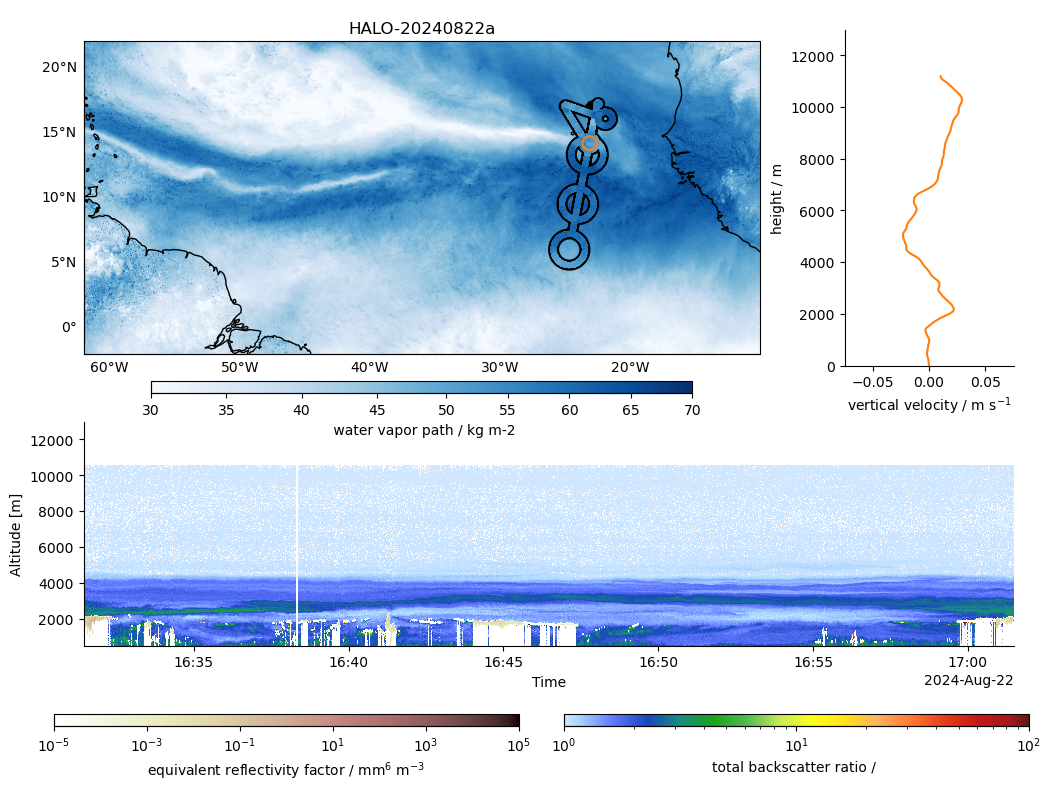
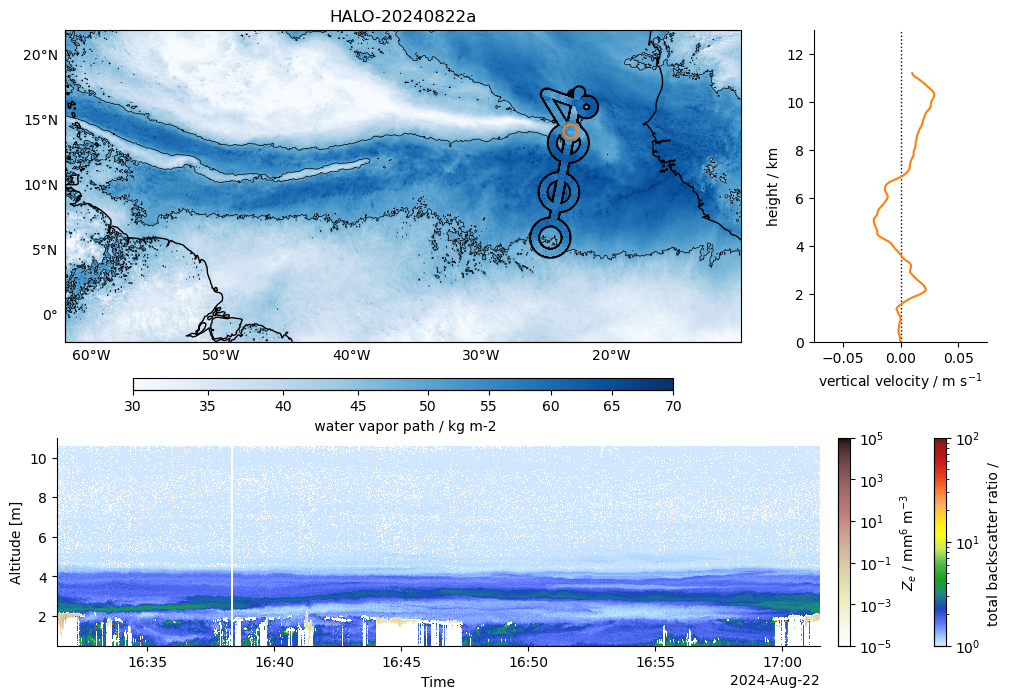
Improves outside the ITCZ plot.

diff --git a/scripts/figures_itcz_outside.py b/scripts/figures_itcz_outside.py
@@ -50,6 +50,8 @@ sondes_ds = xr.open_dataset(
 )
 
 sondes_ds = sondes_ds.swap_dims({"circle": "circle_id"})
+sondes_ds = sondes_ds.assign_coords(altitude=sondes_ds.altitude / 1e3)
+
 circles_flight_day = sondes_ds.sel(circle_time=flight_date)
 
 iwv_crit = 48.0  # kg/m^2
@@ -129,7 +131,7 @@ ds_hamp_flight = ds_hamp.sel(time=slice(flight_start, flight_end))
 
 ds_hamp_passiv = xr.open_dataset(
     "ipfs://bafybeihvsq73hokuex44oueqvnotaeoikwcs5yyiydtc777td2ldcm6z4y", engine="zarr"
-) 
+)
 ds_hamp_passiv_flight = ds_hamp_passiv.sel(time=slice(flight_start, flight_end))
 ds_hamp_passiv_segment = ds_hamp_passiv.sel(time=slice(segment_start, segment_end))
 
@@ -140,7 +142,6 @@ ds_hamp_passiv_segment = ds_hamp_passiv.sel(time=slice(segment_start, segment_en
 # LAM dataset
 url = "https://eerie.cloud.dkrz.de/datasets/orcestra_1250m_2d_hpz12/kerchunk"
 lam_ds = xr.open_dataset(url, chunks={}, engine="zarr", zarr_format=3)
-lam_ds = lam_ds.assign(sfcwind=lambda dx: np.hypot(dx.uas, dx.vas))
 time = f"{flight_date} 16:00"
 
 # %%
@@ -158,7 +159,9 @@ scatter_kwargs = {
 
 fig = plt.figure(figsize=(12, 8))
 
-gs = fig.add_gridspec(2, 2, height_ratios=[1.5, 1], width_ratios=[4, 1])
+gs = fig.add_gridspec(
+    2, 2, height_ratios=[1.5, 1], width_ratios=[4, 1], hspace=0.37, wspace=0.15
+)
 
 ax_lam = fig.add_subplot(gs[0, 0], projection=ccrs.PlateCarree())
 ax_ds = fig.add_subplot(gs[0, 1])
@@ -170,7 +173,16 @@ base_map(coastline_kwargs={"color": "k"}, ax=ax_lam)
 vmin, vmax, vcenter = 30, 70, 48
 norm = TwoSlopeNorm(vmin=vmin, vcenter=vcenter, vmax=vmax)
 cmap = plt.cm.Blues.copy()
-im = egh.healpix_show(ds_lam_sel, cmap=cmap, norm=norm, ax=ax_lam, alpha=1.0)
+im_les = egh.healpix_show(ds_lam_sel, cmap=cmap, norm=norm, ax=ax_lam, alpha=1.0)
+
+egh.healpix_contour(
+    ds_lam_sel,
+    ax=ax_lam,
+    levels=[48],
+    colors="k",
+    linewidths=0.5,
+    zorder=10,
+)
 
 pos = ax_lam.get_position()
 
@@ -178,7 +190,7 @@ width_scale = 0.8
 
 cax_lam_positions = [
     pos.x0 + pos.width * (1 - width_scale) / 2,  # left
-    pos.y1 - 0.44,  # bottom
+    pos.y1 - 0.45,  # bottom
     pos.width * width_scale,  # width
     0.015,  # height
 ]
@@ -186,7 +198,7 @@ cax_lam_positions = [
 cax_lam = fig.add_axes(cax_lam_positions)
 
 cb = fig.colorbar(
-    im,
+    im_les,
     cax=cax_lam,
     orientation="horizontal",
     label=rf" {ds_lam_sel.long_name} / {ds_lam_sel.units}",
@@ -248,6 +260,10 @@ cmap_wales_ticklocator = FixedLocator(
 )
 
 ds_wales_sel_segment = ds_wales_no_wv.sel(time=slice(segment_start, segment_end))
+ds_wales_sel_segment = ds_wales_sel_segment.assign_coords(
+    altitude=ds_wales_sel_segment.altitude / 1e3
+)
+
 im_wales = ds_wales_sel_segment["bsrg"].plot(
     alpha=0.9,
     x="time",
@@ -267,6 +283,9 @@ cmap.set_under((1, 1, 1, 0))  # transparent
 reflectivity_segment = ds_hamp_flight.radar_reflectivity.sel(
     time=slice(segment_start, segment_end)
 )
+reflectivity_segment = reflectivity_segment.assign_coords(
+    altitude=reflectivity_segment.altitude / 1e3
+)
 
 
 im_hamp = reflectivity_segment.plot(
@@ -280,32 +299,25 @@ im_hamp = reflectivity_segment.plot(
 
 
 pos = ax_wales.get_position()
+ax_wales.set_position([pos.x0, pos.y0, pos.width * 0.82, pos.height])
+pos = ax_wales.get_position()
 
-cax_wv_positions = [
-    pos.x0 - 0.025,  # left
-    pos.y1 - 0.38,  # bottom
-    0.5 * pos.width,  # width
-    0.015,  # height
-]
-
-cax_wv = fig.add_axes(cax_wv_positions)
-cax_wales = fig.add_axes(cax_wv_positions + np.array([0.425, 0, 0, 0]))
-
+cbar_width = 0.01
+cax_wv = fig.add_axes([pos.x1 + 0.015, pos.y0, cbar_width, pos.height])
+cax_wales = fig.add_axes([pos.x1 + 0.095, pos.y0, cbar_width, pos.height])
 
 cb = fig.colorbar(
     im_hamp,
     cax=cax_wv,
-    orientation="horizontal",
-    label=r"equivalent reflectivity factor / mm$^6$ m$^{-3}$",
-    shrink=0.75,
+    orientation="vertical",
+    label=r"$Z_e$ / mm$^6$ m$^{-3}$",
 )
 
 cb_wales = fig.colorbar(
     im_wales,
     cax=cax_wales,
-    orientation="horizontal",
+    orientation="vertical",
     label=r"total backscatter ratio / ",
-    shrink=0.75,
 )
 
 circles_flight_day.sel(circle_id=segment_for_plot["segment_id"]).wvel.plot(
@@ -316,14 +328,15 @@ cwv_circle_in_segment = circles_flight_day.sel(
     circle_id=segment_for_plot["segment_id"]
 ).iwv_mean.values
 
+ax_ds.axvline(0, color="k", linestyle=":", linewidth=1, zorder=0)
 
 ax_ds.set_xlabel("vertical velocity / m s$^{-1}$")
-ax_ds.set_ylabel("height / m")
+ax_ds.set_ylabel("height / km")
 ax_ds.set_title(" ")
-ax_ds.set_ylim(ymin=0, ymax=13e3)
+ax_ds.set_ylim(ymin=0, ymax=13)
 ax_ds.set_xlim(xmin=-0.075, xmax=0.075)
 
-ax_wales.set_ylim(ymin=500, ymax=13e3)
+ax_wales.set_ylim(ymin=0.5, ymax=11)
 
 # plt.suptitle(flight_id)
 

diff --git a/overviewPaper.tex b/overviewPaper.tex
@@ -442,7 +442,7 @@ When the analysis is done separately for the eastern and western domain (not sho
 These results need additional analysis, especially given the small number of circles and the limited sampling of the dry end of the circulation. However, they illustrate how the data collected during PERCUSION might be used to assess observationally how efficiently the ITCZ exports energy.
 
 Finally, we note two limitations of the moisture-space perspective.
-First, it hides how sharp the ITCZ edges are in physical space. We define the ITCZ as the region with CWV above 48\,\unit{mm}, the moist margin of \citet{Mapes2018}, yet deep convection becomes frequent only near 60\,\unit{mm} (Fig.~\ref{fig:itcz_cwv}), consistent with the precipitation pick-up found by \citet{Bretherton2004} and \citet{Peters2006}. In physical space, however, the two thresholds lie close together. Where CWV crosses 48\,\unit{mm}, it increases by a median of about 6\,\unit{mm} per degree latitude (not shown) and thus reaches 60\,\unit{mm} within about 2\textdegree{}, or roughly 200\,\unit{km}. This matches the distance between the 48\,\unit{mm} contour and the precipitation peak reported by \citet{Mapes2018}. Because the gradient is similar for thresholds between about 45 and 55\,\unit{mm} (not shown), a range of CWV values might have been suitable to identify the edges of the ITCZ during the campaign.
+First, it hides how sharp the ITCZ edges can be in physical space. We define the ITCZ as the region with CWV above 48\,\unit{mm}, the moist margin of \citet{Mapes2018}, yet deep convection becomes frequent only near 60\,\unit{mm} (Fig.~\ref{fig:itcz_cwv}), consistent with the precipitation pick-up found by \citet{Bretherton2004} and \citet{Peters2006}. In physical space, however, the two thresholds lie close together. Where CWV crosses 48\,\unit{mm}, it increases by a median of about 6\,\unit{mm} per degree latitude (not shown) and thus reaches 60\,\unit{mm} within about 2\textdegree{}, or roughly 200\,\unit{km}. This matches the distance between the 48\,\unit{mm} contour and the precipitation peak reported by \citet{Mapes2018}. Because the gradient is similar for thresholds between about 45 and 55\,\unit{mm} (not shown), a range of CWV values might have been suitable to identify the edges of the ITCZ during the campaign.
 
 Second, CWV alone does not determine whether deep convection occurs.
 A better predictor may be the lower-tropospheric buoyancy $B_L$ of an entraining plume \citep{ahmedReverseEngineeringTropical2018, ahmedDeepConvectiveAdjustment2020}, which accounts for the vertical distribution of water vapour and temperature.
@@ -473,7 +473,7 @@ Each case study also shows a snapshot from the limited area model simulations th
 \usebox{\itczedgebox}\\[4pt]
 \includegraphics[width=0.8\linewidth]{figures/PERCUSION_20240822_VELOX_Pushbroom_F1_cut.png}
 % TODO (figure): 48 mm CWV isoline in (a); zero line in (b).
-\caption{HALO flight \textit{HALO-20240822a} on the 22nd of August 2024 based in Sal (Cabo Verde) with five dropsonde circles. (a) Along flight track measurements of CWV from HAMP are shown in colours (bounded by a black contour). Background colours show the LAM simulated CWV distribution at 16:00 UTC. The orange line shows the flight track during a dropsonde circle at the edge of the ITCZ and shown in more detail in (b), which shows the circle mean vertical velocity calculated from the dropsondes, (c) which shows the total backscatter ratio measured by WALES, and (d) which shows two-dimensional brightness temperature in the 7.7 to 12.0\,\unit{\mu m} channel measured by VELOX.}
+\caption{HALO flight \textit{HALO-20240822a} on the 22nd of August 2024 based in Sal (Cabo Verde) with five dropsonde circles. (a) Along flight track measurements of CWV from HAMP are shown in colours (bounded by a black contour). Background colours show the LAM simulated CWV distribution at 16:00 UTC. The orange line shows the flight track during a dropsonde circle at the edge of the ITCZ and shown in more detail in (b), which shows the circle mean vertical velocity calculated from the dropsondes, (c) which shows the equivalent radar reflectivity factor ($Z_e$) measured by HAMP and the total backscatter ratio measured by WALES, and (d) which shows two-dimensional brightness temperature in the 7.7 to 12.0\,\unit{\mu m} channel measured by VELOX.}
 \label{fig:at_edge_of_itcz}
 \end{figure}
  
